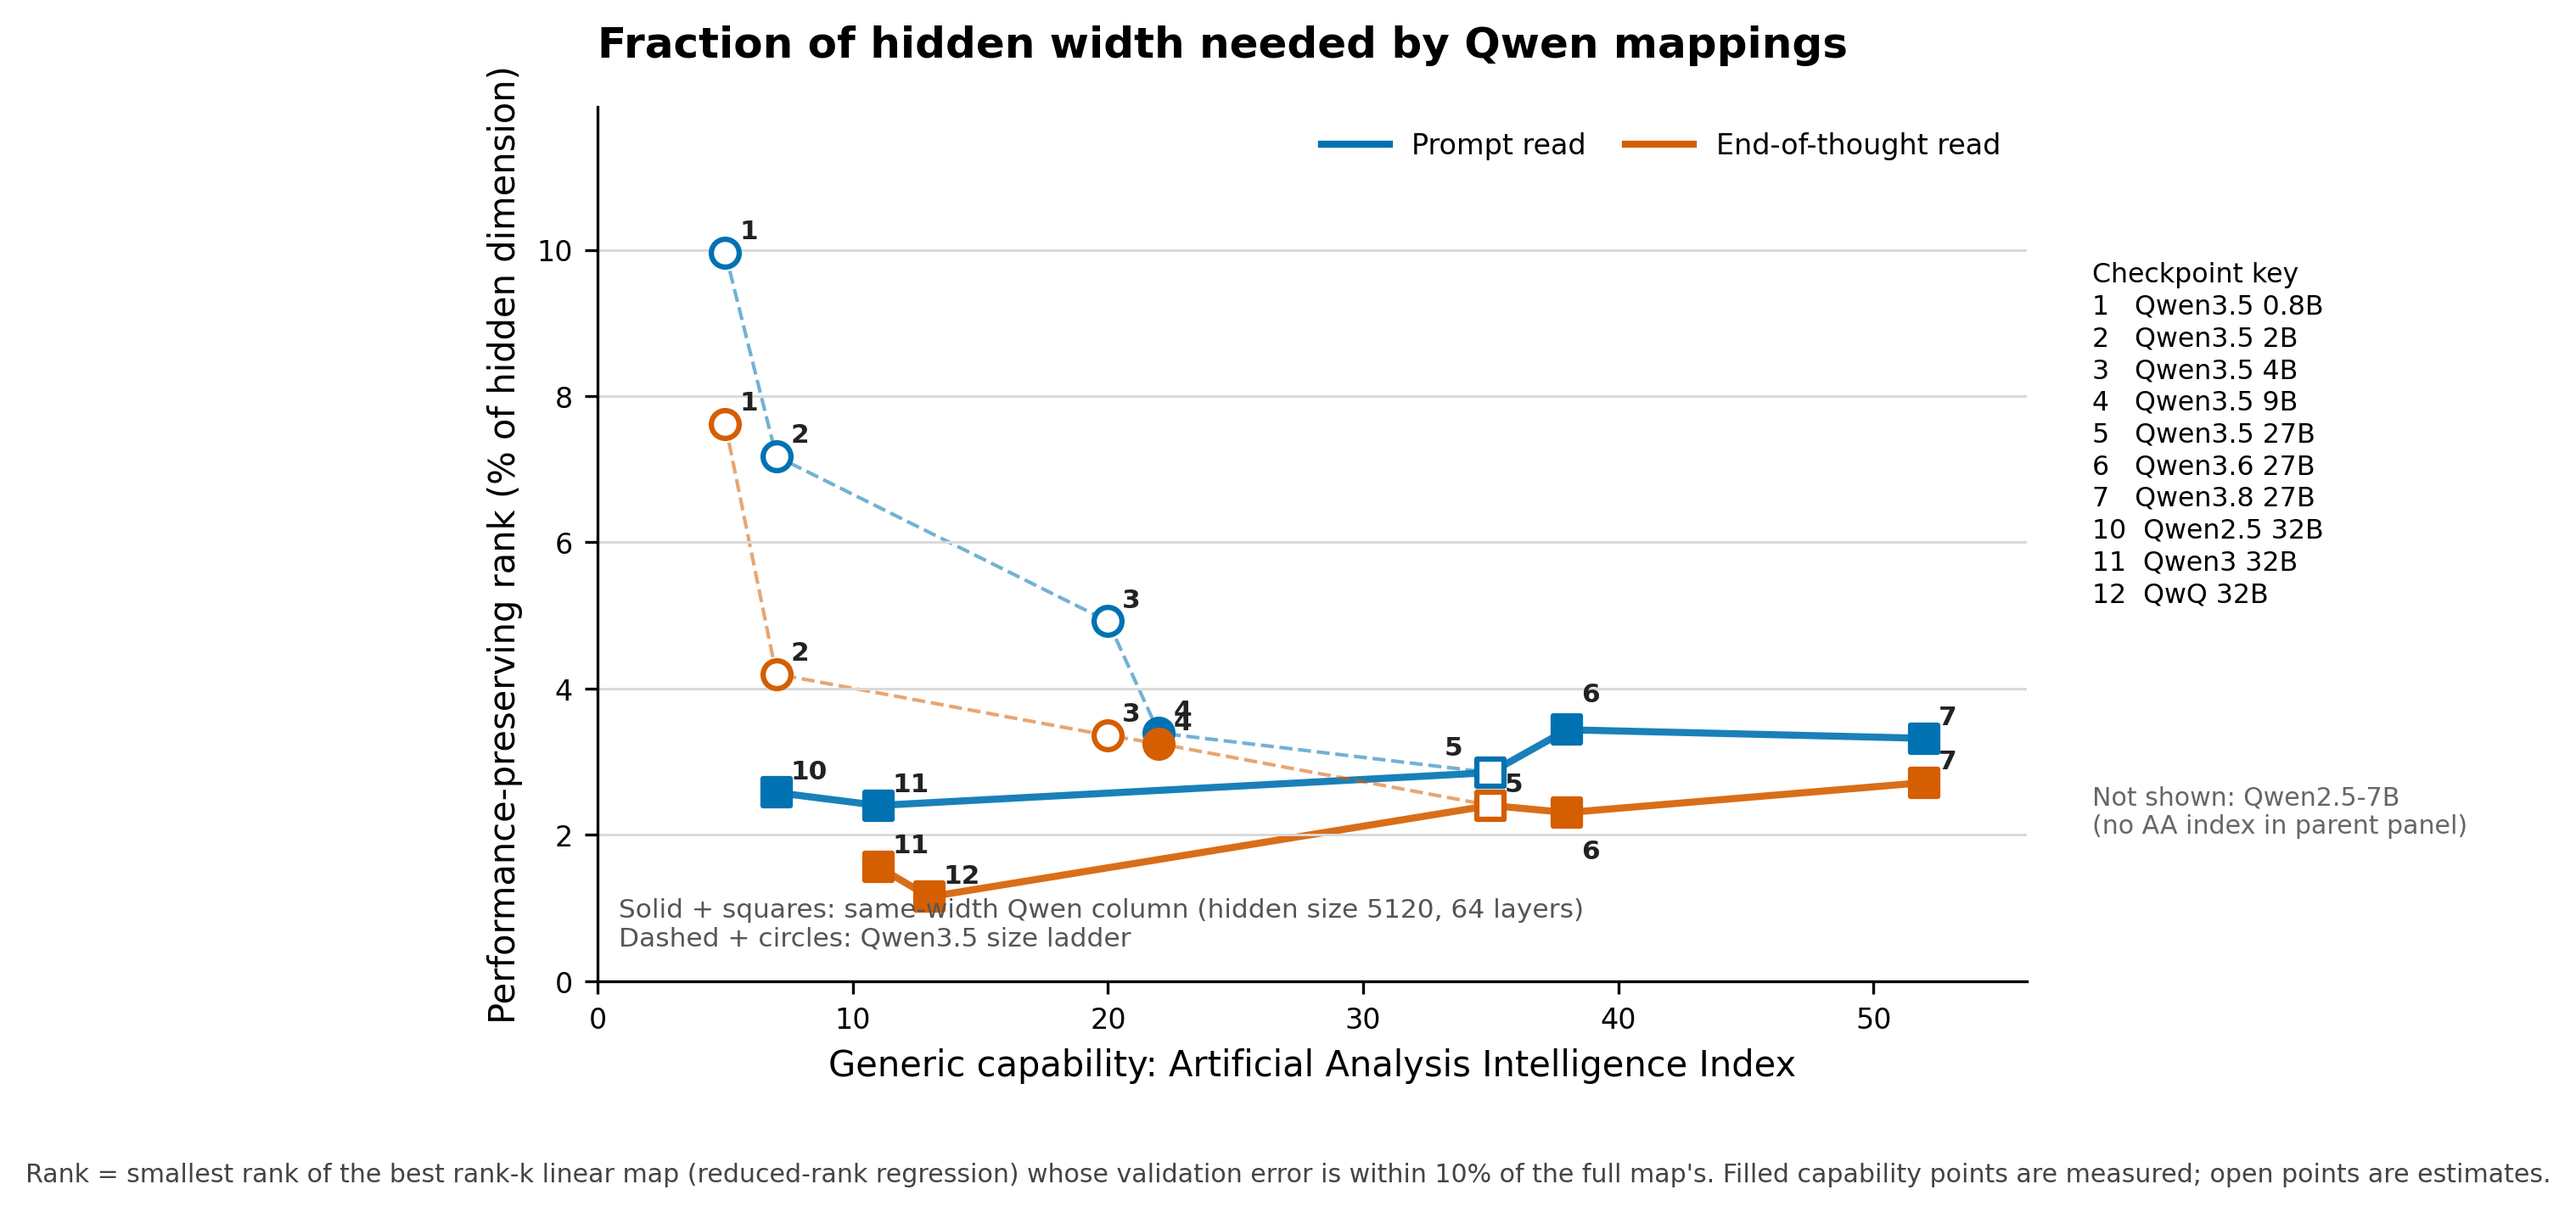
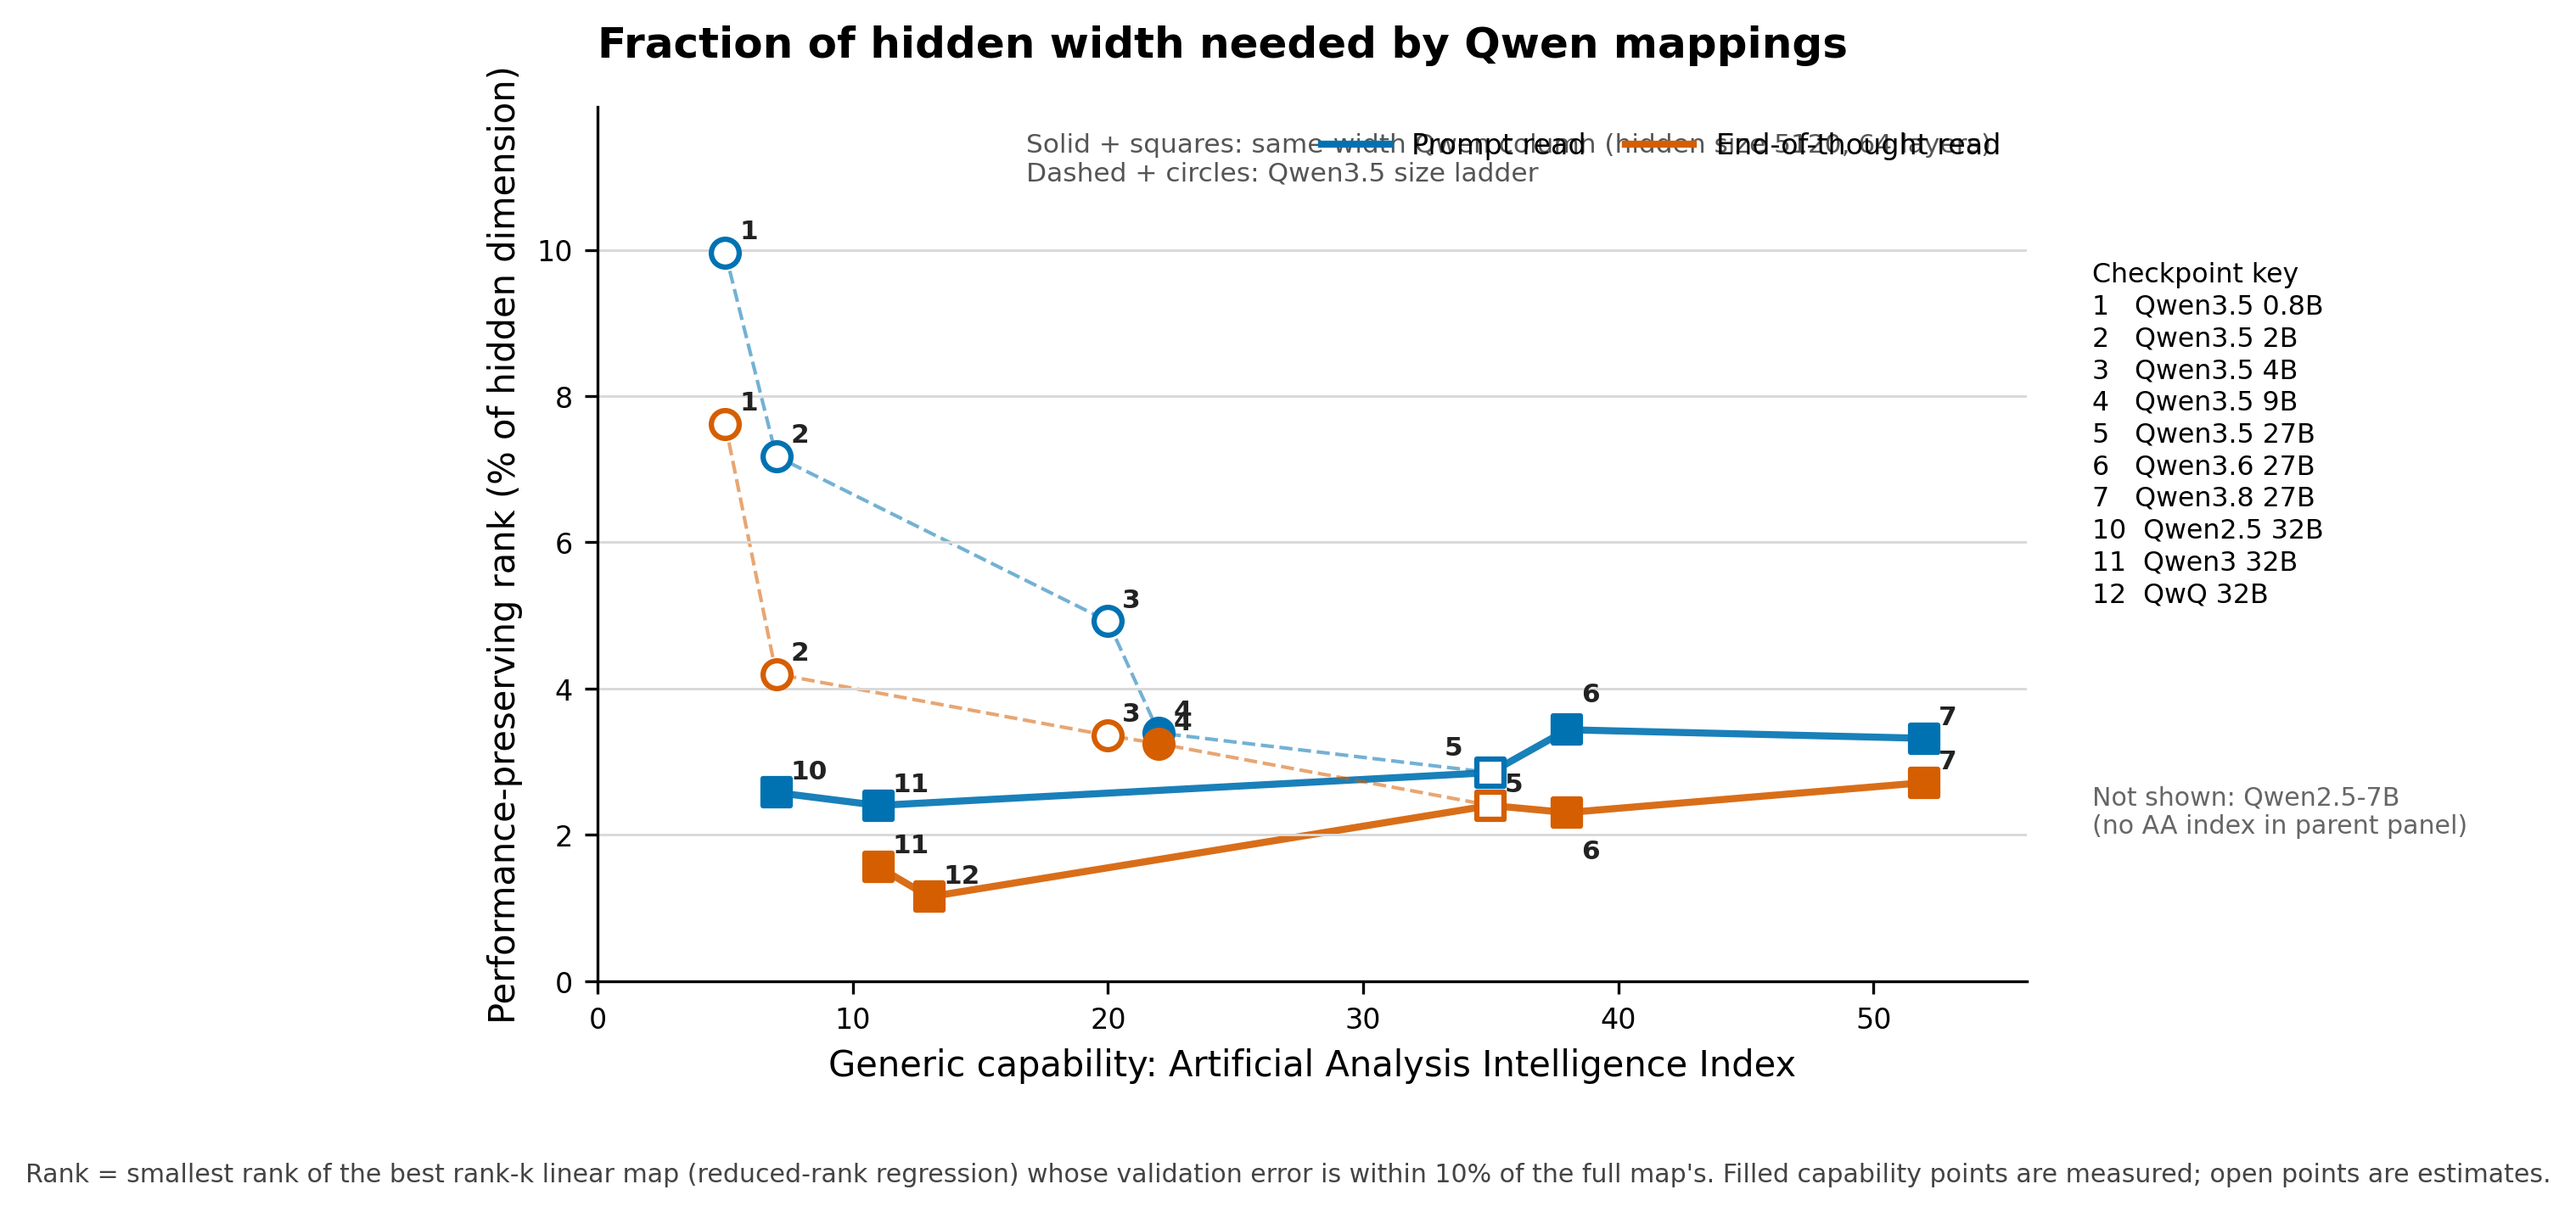
#2588 figures: move the Qwen rank-fraction caption clear of the low points
Generated with [Claude Code](https://claude.ai/code)
via [Happy](https://happy.engineering)

Changed region(s): [[0.2478, 0.739, 0.6194, 0.8006], [0.4026, 0.0924, 0.5885, 0.154], [0.5885, 0.0924, 0.6194, 0.1232]]

diff --git a/scripts/issue2588_mapping_rank_vs_capability.py b/scripts/issue2588_mapping_rank_vs_capability.py
@@ -1070,14 +1070,14 @@ def render_rank_fraction_figure(results: list[dict[str, Any]], output: Path) -> 
     ax.grid(axis="y", color="#d9d9d9", linewidth=0.7)
     ax.spines[["top", "right"]].set_visible(False)
     ax.text(
-        0.015,
-        0.035,
+        0.30,
+        0.97,
         "Solid + squares: same-width Qwen column (hidden size 5120, 64 layers)\n"
         "Dashed + circles: Qwen3.5 size ladder",
         transform=ax.transAxes,
         fontsize=7.5,
         color="#555555",
-        va="bottom",
+        va="top",
     )
     fig.text(0.805, 0.76, point_key, ha="left", va="top", fontsize=7.6, linespacing=1.28)
     fig.text(
